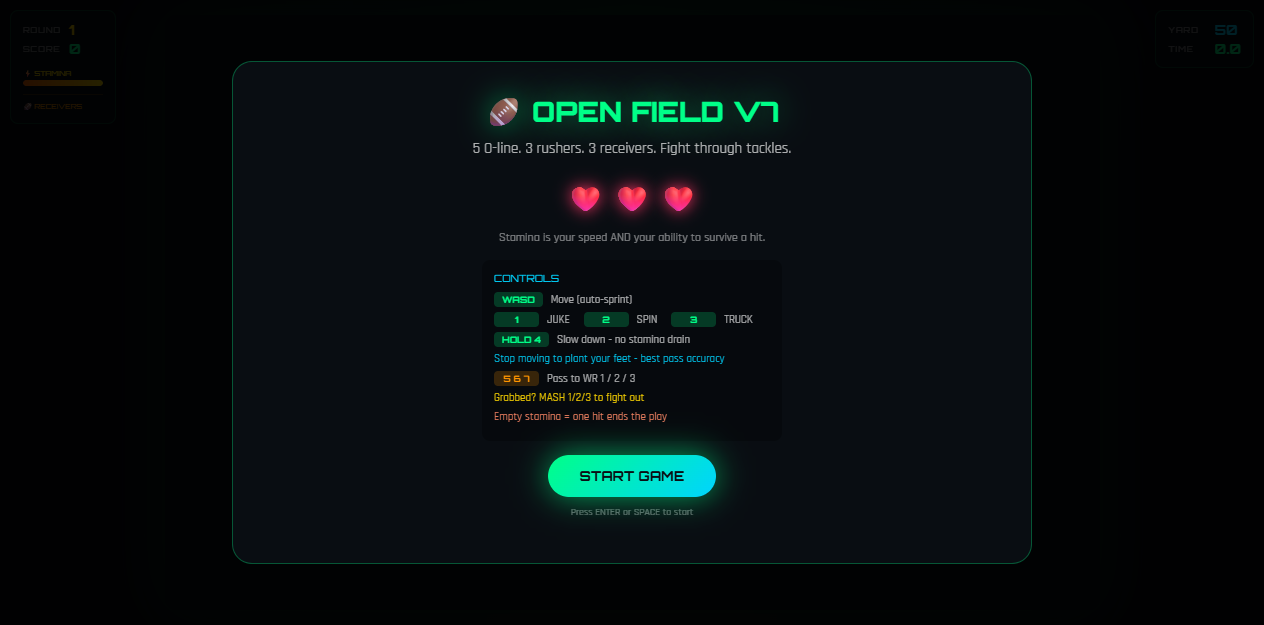
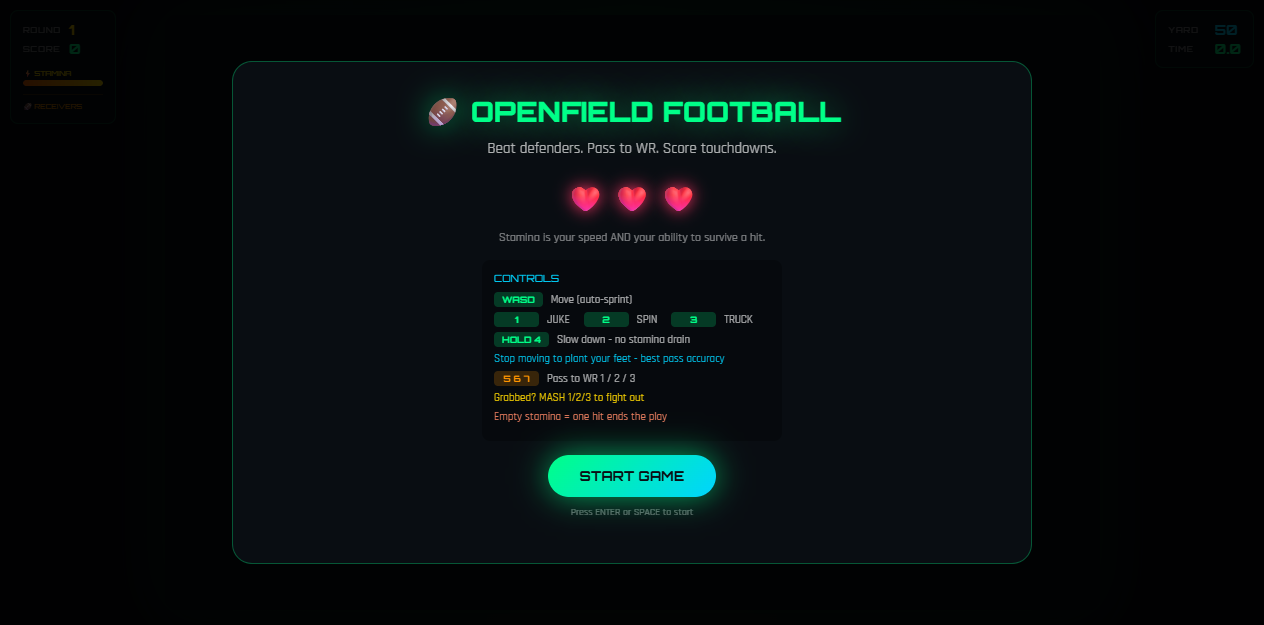
README/screenshots: 4-image walkthrough with pre-snap calls, hero menu, scout, gameplay; update to portfolio-standard README

Changed region(s): [[0.3394, 0.152, 0.6788, 0.2432]]

diff --git a/README.md b/README.md
@@ -1,27 +1,32 @@
 # Openfield Football
 
-![Openfield Football start screen](docs/images/v7-hero-menu.png)
+A browser-based **arcade American football game** — dodge defenders, call plays at the line of scrimmage, pass to your wide receivers, and score touchdowns. Built as a single self-contained HTML file with no build step.
 
-A browser-based **arcade American football game** — dodge defenders, pass to your
-wide receivers, and score touchdowns. Built as a single self-contained HTML file
-with a Node/Vm harness for regression checks.
+## Screenshots / Visual Walkthrough
+![Start screen with controls and pre-snap calls entry](docs/images/v7-hero-menu.png)
+![Pre-snap offensive calls — set OL blocking schemes and WR routes before the snap](docs/images/v7-offensive-calls.png)
+![In-game HUD — round, stamina, yards, and active receiver routes](docs/images/v7-core-workflow.png)
+![Skill upgrade screen — upgrade player/WR stats between rounds](docs/images/v7-upgrade-scout.png)
 
 ## Features
 - Neon cyberpunk launch menu with lives + stamina HUD
+- Pre-snap offensive calls: set each OL’s block scheme (BLOCK / PULL_L / PULL_R) and each WR’s route before the snap
 - Auto-sprint movement (WASD); hold `4` to slow without stamina drain
 - Skill moves: `1` Juke · `2` Spin · `3` Truck
-- Pass to WR 1 / 2 / 3 with `5` / `6` / `7`
+- Pass to WR 1 / 2 / 3 with `5` / `6` / `7`; hold `4` to plant feet for set-factor accuracy
+- Bullet / lob pass mechanic: tap `4` for a fast bullet, hold `4` for a high-arcing lob
 - 3-WR roster with route running + openness HUD
 - Dynamic defensive scout screen before each round
 - 8 defender archetypes (incl. the new **LOB** tight-zone closer) with stamina-gated special abilities
 - Wrap-up struggle system: fight / break free / get tackled
-- Set-factor QB pass accuracy (plant your feet for a better throw)
 - **HANDS** skill upgrade: more reliable catches, fewer drops
+- Sticky corner coverage — defenders now stay on their receiver through scrambles
+- Camera zoomed in for better field readability
 
 ## Tech stack
-- Single HTML file game loop
+- Single HTML file game loop (`open_field_v6.html`)
 - Canvas rendering
-- Harnessed validation via `harness.js` + `test.js`
+- Regression checks via `harness.js` + `test.js` + `scripts/verify-v7.cjs`
 
 ## Quickstart
 ```bash
@@ -39,16 +44,19 @@ open open_field_v6.html
 ├── scripts/verify-v7.cjs      # V7 feature verification
 ├── package.json               # Script runner wrapper
 ├── CHANGELOG.md               # Release notes
-└── docs/images/               # Screenshots
+├── docs/                      # Design docs + screenshots
+│   └── images/
+└── screenshots/               # Raw captures from current build
 ```
 
-## Screenshots / Visual Walkthrough
-- `docs/images/v7-hero-menu.png` — start screen with controls
-- `docs/images/v7-upgrade-scout.png` — Skill upgrade screen
-- `docs/images/v7-core-workflow.png` — Round start / HUD state
+## Testing and Evidence
+```bash
+npm run test
+```
+Last verified run: **8/8** legacy tests + **5/5** V7 verification + **2/2** AC-10 acceptance checks, all passing.
 
 ## Project status
-Functional / Tested
+Tested / Portfolio Ready
 
 ### Known limitations
 - `test.js` reflects V6-era contracts and does not assert every V7 flow
@@ -60,9 +68,19 @@ Functional / Tested
 - Add automated screenshot diff regression for render stability
 - Optional mobile wrapper / key rebind UI
 
+## Design Decisions
+- **Pre-snap calls instead of per-player pop-up wheels:** kept UI consistent with existing scout/upgrade flow rather than adding a new interaction paradigm mid-play.
+- **PULL linemen side-locked assignment:** a pulled blocker is off the line — his job is the blitzer, not the D-line — so he only picks up threats on his declared side.
+- **Committed blocker assignments:** blockers hold their man until the block dies. This prevents the churn where OLs re-targeted every 0.35s and never actually engaged a blitzer.
+- **Camera zoom at 8.5:** chosen to tighten the baseline angle without hiding WR routes.
+
 ## Human and AI contributions
-- Ross Presendieu: design direction, gameplay target, accepted V7 surface and feature list
-- Nano / Hermes Agent: full V7 port into existing repo, harness updates, acceptance reports
+- Ross Presendieu: design direction, gameplay target, accepted V7 surface and feature list, repo owner
+- Nano / Hermes Agent: full V7 port into existing repo, pre-snap calls implementation, blitz pickup + coverage fixes, harness updates, acceptance reports, plugin generation, screenshot captures
+
+## Security and Privacy
+- No credentials, API keys, or personal data are committed.
+- The game is fully client-side; there is no server-side data collection.
 
 ## License
 MIT — see LICENSE.
